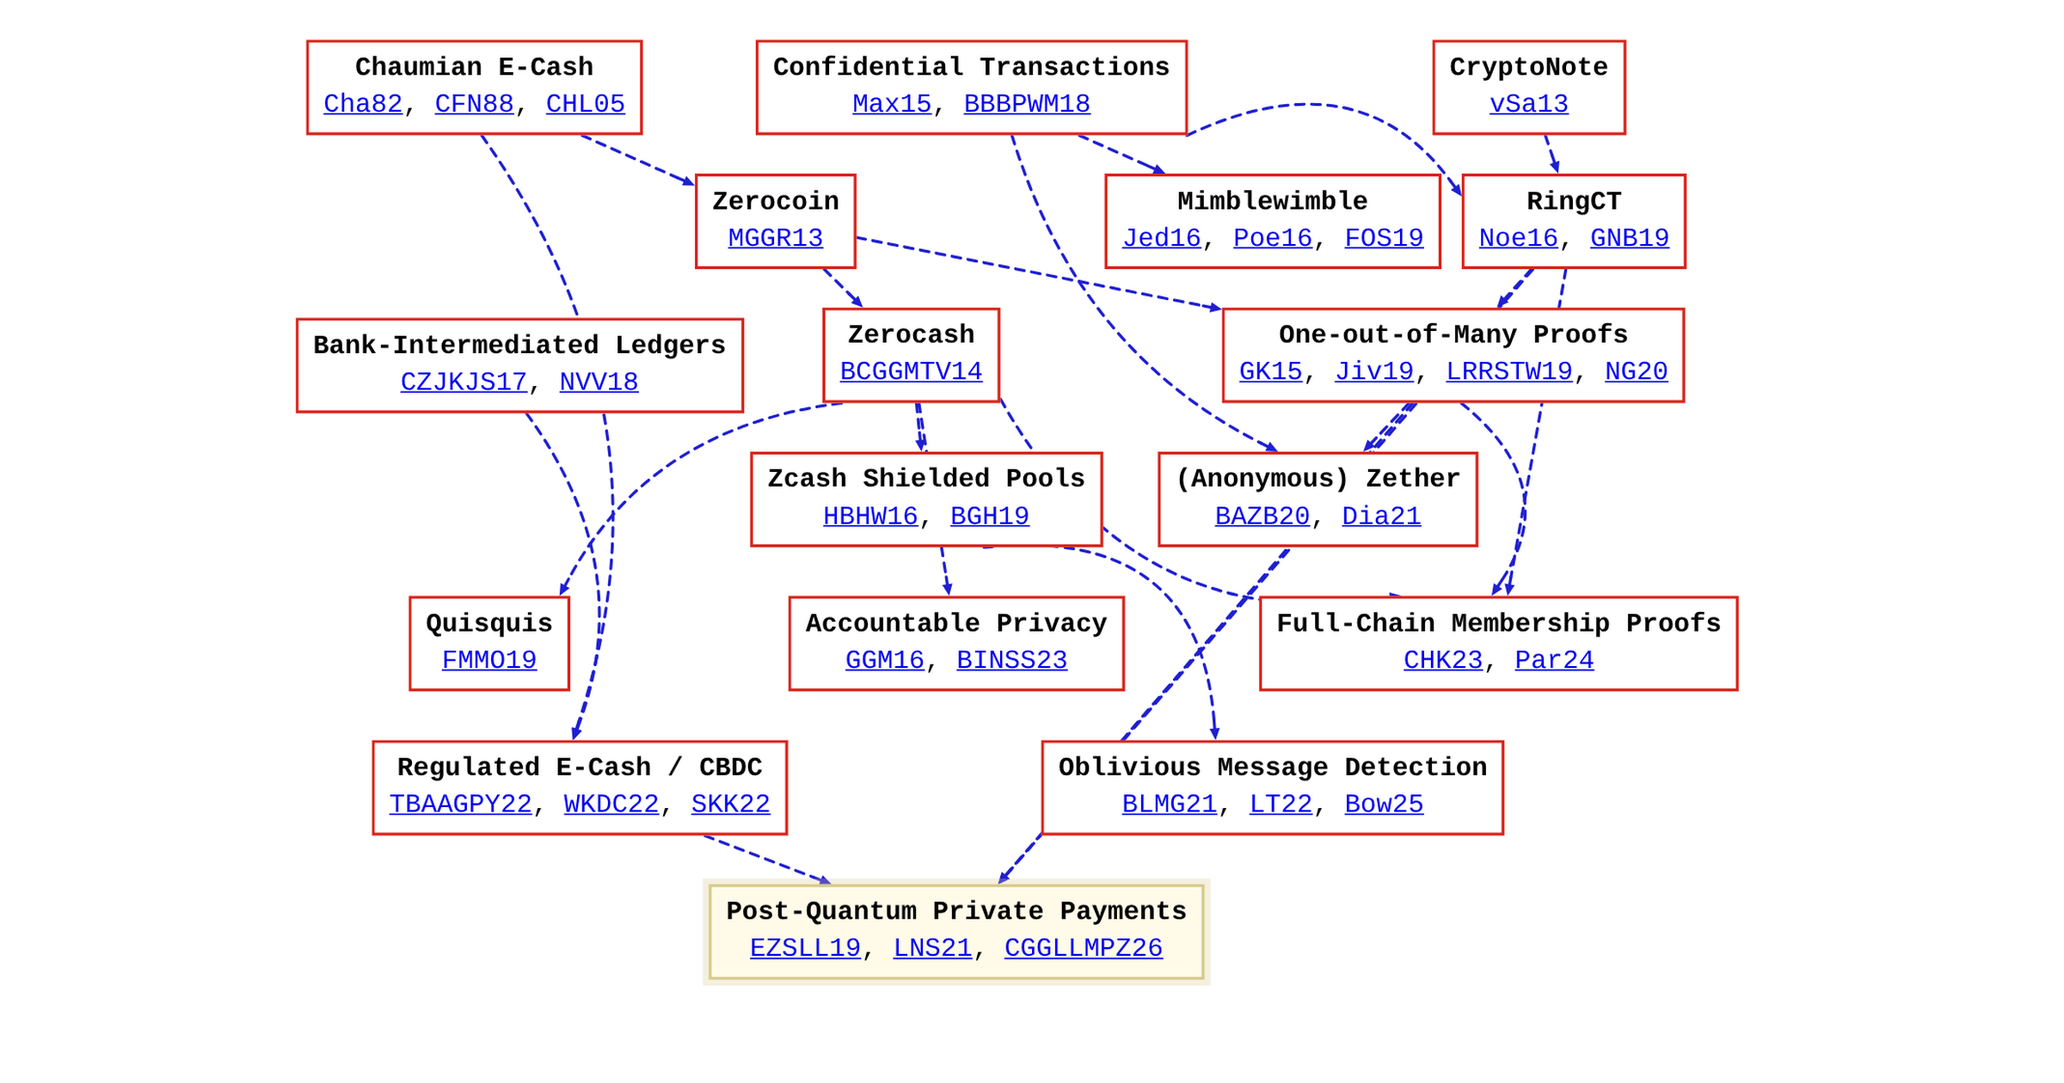
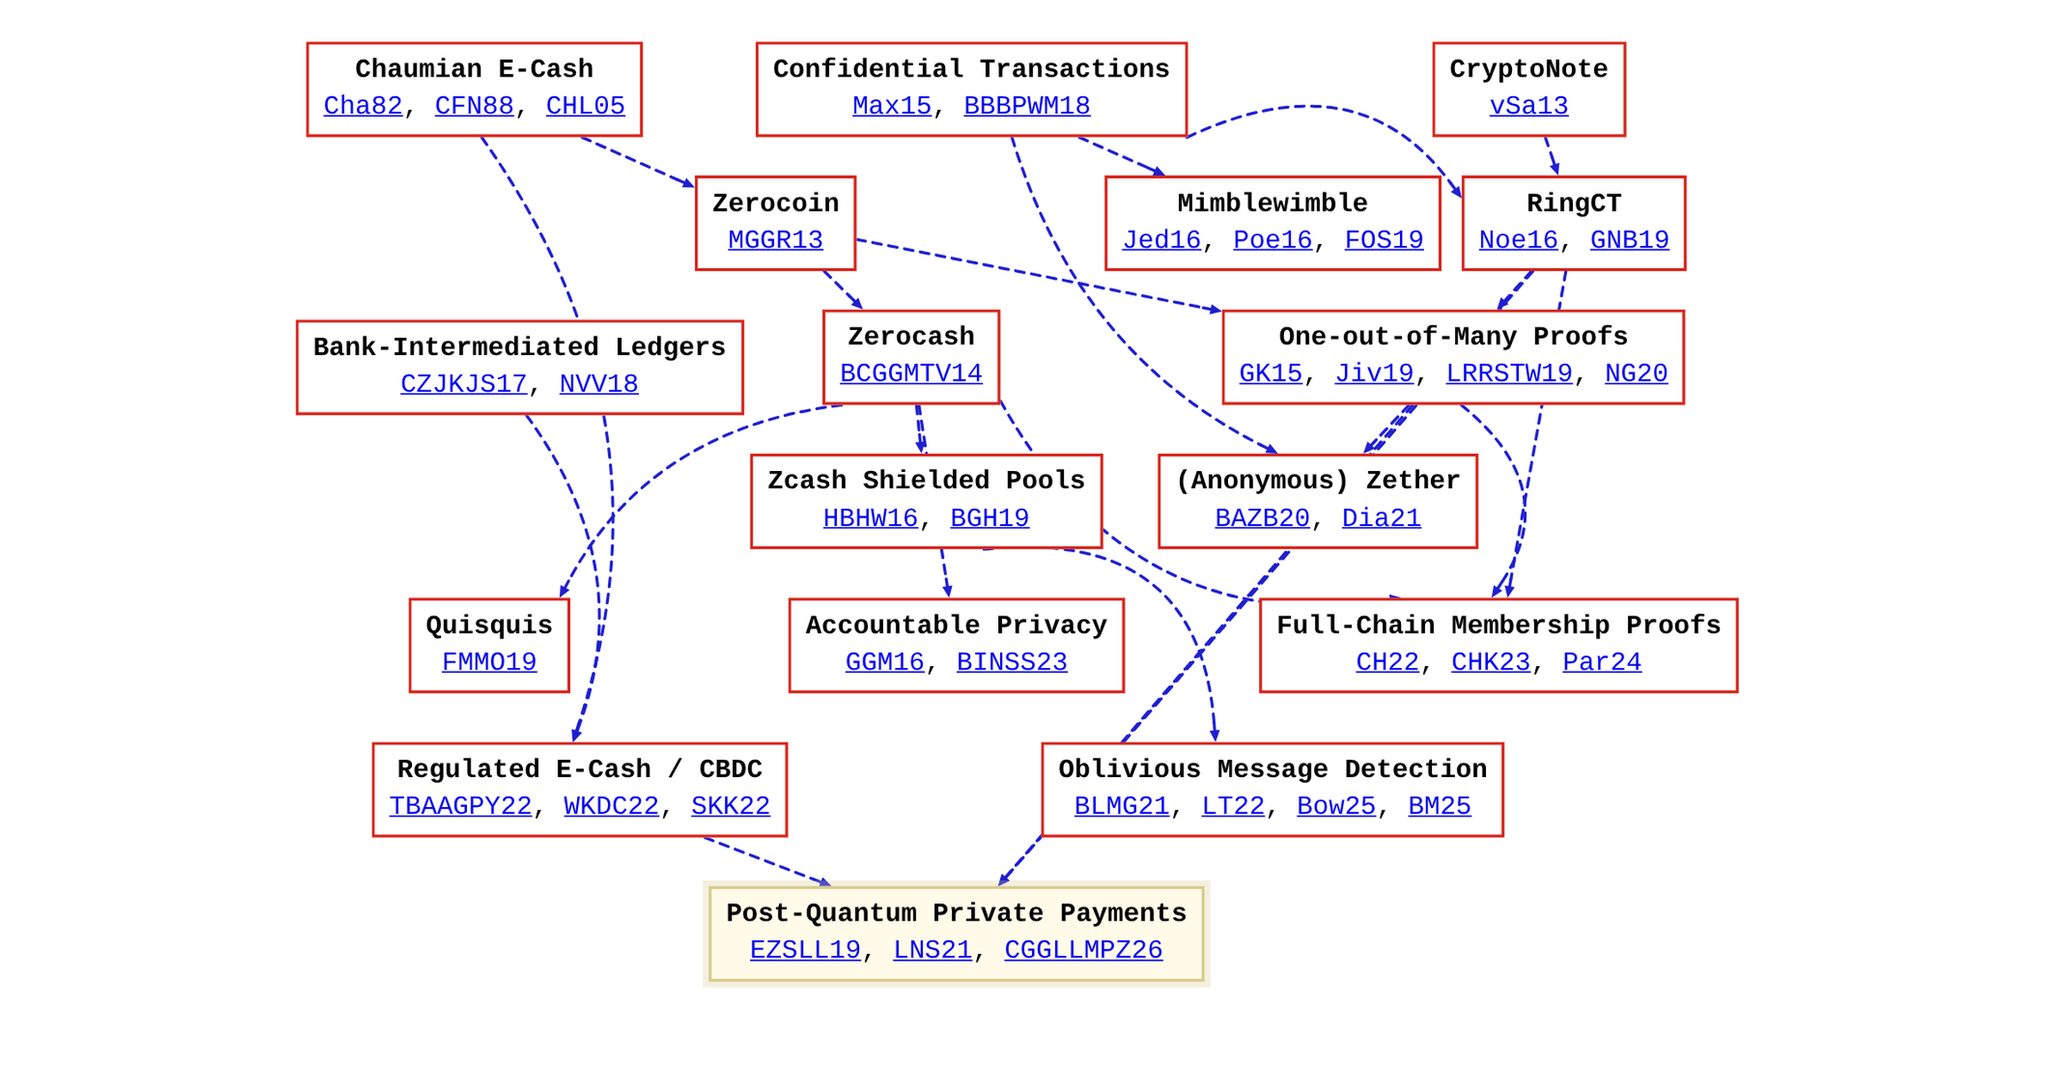
[docs] Hush Money: add Veksel, OCash, PARScoin, DART, and A Note on Notes
Cover the remaining core reading: Veksel (CH22) as the
rerandomization-from-a-set ancestor of curve trees, OCash (HNS24) for
light-client anonymity against serving full nodes, PARScoin (SKK23) and
DART (SKKK25) extending the PEReDi machinery to stablecoins and
multi-asset tokenization, and Bowe-Miers "A Note on Notes" (BM25) as the
paper form of Tachyon's evolving nullifiers and oblivious synchronization.

Claude-Session: https://claude.ai/code/session_016nPoQQGkrV6Mwk5a95oFrh

diff --git a/docs/blogs/private-payments.html b/docs/blogs/private-payments.html
@@ -280,14 +280,16 @@ Vamsi Policharla</a></div>
         ring signatures logarithmic. Every descendant hit the same wall:
         verification linear in the anonymity set, capping deployed sets
         near <span class="math inline">2^{16}</span>.</p>
-        <p>Curve trees (<a
-        href="https://eprint.iacr.org/2022/756">CHK23</a>) broke the
-        wall: a transparent zero-knowledge accumulator built from
-        shallow Merkle trees of Pedersen commitments over a 2-cycle of
-        elliptic curves, proved with <em>select-and-rerandomize</em>
-        relations in Bulletproofs-style circuits – membership proofs of
-        a few KB for sets beyond <span
-        class="math inline">2^{32}</span>. <a
+        <p>Veksel (<a href="https://eprint.iacr.org/2021/327">CH22</a>)
+        showed the way around the wall: build payments from a proof that
+        a homomorphic commitment is a <em>rerandomization</em> of a
+        commitment from a set, without revealing which one. Curve trees
+        (<a href="https://eprint.iacr.org/2022/756">CHK23</a>) scaled
+        the idea into a transparent zero-knowledge accumulator – shallow
+        Merkle trees of Pedersen commitments over a 2-cycle of elliptic
+        curves, proved with <em>select-and-rerandomize</em> relations in
+        Bulletproofs-style circuits – giving membership proofs of a few
+        KB for sets beyond <span class="math inline">2^{32}</span>. <a
         href="https://gist.github.com/kayabaNerve/0e1f7719e5797c826b87249f21ab6f86">FCMP++</a>
         retrofits this onto Monero’s existing outputs using Generalized
         Bulletproofs and Eagen’s divisor technique (<a
@@ -336,7 +338,13 @@ Vamsi Policharla</a></div>
         state transition; PEReDi (<a
         href="https://eprint.iacr.org/2022/974">SKK22</a>) distributes
         the operator into a quorum of maintainers with threshold tracing
-        and privacy revocation, proven in the UC framework.</p>
+        and privacy revocation, proven in the UC framework. The same
+        machinery extends outward: PARScoin (<a
+        href="https://eprint.iacr.org/2023/1908">SKK23</a>) to
+        fiat-backed stablecoins, and DART (<a
+        href="https://eprint.iacr.org/2025/239">SKKK25</a>) to anonymous
+        multi-asset tokenization with asset-specific auditors whose
+        identities themselves stay hidden.</p>
         <p>Compliance for permissionless pools split on one question:
         does anyone hold a de-anonymization trapdoor? <a
         href="https://eprint.iacr.org/2016/061">GGM16</a> put policies –
@@ -364,11 +372,14 @@ Vamsi Policharla</a></div>
         privacy from a single untrusted detector that homomorphically
         packs pertinent messages into an encrypted digest, at <span
         class="math inline">\Theta(N)</span> FHE cost. Tachyon (<a
-        href="https://seanbowe.com/blog/tachyon-scaling-zcash-oblivious-synchronization/">Bow25</a>)
-        exits the game entirely: out-of-band payments, wallet state
-        carried as proof-carrying data, and <em>oblivious
-        synchronization</em> make wallet cost proportional to the
-        wallet’s own activity rather than global chain activity.</p>
+        href="https://seanbowe.com/blog/tachyon-scaling-zcash-oblivious-synchronization/">Bow25</a>,
+        formalized in <a
+        href="https://eprint.iacr.org/2025/2031">BM25</a>) exits the
+        game entirely: out-of-band payments, wallet state carried as
+        proof-carrying data, <em>evolving nullifiers</em>, and
+        <em>oblivious synchronization</em> make wallet cost proportional
+        to the wallet’s own activity rather than global chain
+        activity.</p>
         </div>
         <div id="private-payments-dream-source"
         class="cw-magic-dream-source">
@@ -484,7 +495,12 @@ Vamsi Policharla</a></div>
         href="https://link.springer.com/chapter/10.1007/978-3-031-91131-6_5">LSTW25</a>)
         closing clue-collision DoS. No scheme escapes total server work
         linear in the board – the frontier is constants and trust, not
-        asymptotics.</p>
+        asymptotics. OCash (<a
+        href="https://eprint.iacr.org/2024/246">HNS24</a>) attacks the
+        reader’s side of the ledger instead: payments are shuffled on
+        chain so that a light client knows a few positions among which
+        to find its payment, staying anonymous even against the full
+        nodes it reads through.</p>
         <p>The validator’s bill is state: commitments and nullifiers can
         never be deleted, because the design hides exactly which outputs
         died. Mimblewimble’s cut-through, Quisquis’s non-increasing
@@ -496,8 +512,10 @@ Vamsi Policharla</a></div>
         is the most radical settlement of both bills at once: notes are
         delivered out-of-band, wallets carry proofs of their own state,
         nullifiers evolve unlinkably so untrusted services can prove
-        non-spentness obliviously, and full nodes prune history – wallet
-        and validator costs track the wallet’s own activity, and the
+        non-spentness obliviously, and validators permanently prune the
+        nullifier set (<a
+        href="https://eprint.iacr.org/2025/2031">BM25</a>) – wallet and
+        validator costs track the wallet’s own activity, and the
         trial-decryption side channel disappears structurally.</p>
         <h2 id="the-fourth-axis-accountability">The Fourth Axis:
         Accountability</h2>

diff --git a/docs/blogs/private-payments.magic-move.js b/docs/blogs/private-payments.magic-move.js
@@ -19,10 +19,10 @@ const BOXES = [
   { id: 'cbdc', title: 'Regulated E-Cash / CBDC', papers: 'TBAAGPY22, WKDC22, SKK22', slide1: { x: 20, y: 74 }, slide2: { x: LEFT_COLUMN_X, y: 50 } },
   { id: 'shielded', title: 'Zcash Shielded Pools', papers: 'HBHW16, BGH19', slide1: { x: 43, y: 46 }, slide2: { x: RIGHT_COLUMN_X, y: 37 } },
   { id: 'zether', title: '(Anonymous) Zether', papers: 'BAZB20, Dia21', slide1: { x: 69, y: 46 }, slide2: { x: MIDDLE_COLUMN_X, y: 50 } },
-  { id: 'fcmp', title: 'Full-Chain Membership Proofs', papers: 'CHK23, Par24', slide1: { x: 81, y: 60 }, slide2: { x: RIGHT_COLUMN_X, y: 50 } },
+  { id: 'fcmp', title: 'Full-Chain Membership Proofs', papers: 'CH22, CHK23, Par24', slide1: { x: 81, y: 60 }, slide2: { x: RIGHT_COLUMN_X, y: 50 } },
   { id: 'quisquis', title: 'Quisquis', papers: 'FMMO19', slide1: { x: 14, y: 60 }, slide2: { x: MIDDLE_COLUMN_X, y: 63 } },
   { id: 'acc', title: 'Accountable Privacy', papers: 'GGM16, BINSS23', slide1: { x: 45, y: 60 }, slide2: null },
-  { id: 'det', title: 'Oblivious Message Detection', papers: 'BLMG21, LT22, Bow25', slide1: { x: 66, y: 74 }, slide2: null },
+  { id: 'det', title: 'Oblivious Message Detection', papers: 'BLMG21, LT22, Bow25, BM25', slide1: { x: 66, y: 74 }, slide2: null },
 ];
 
 const EPRINT_URLS = {
@@ -52,6 +52,7 @@ const EPRINT_URLS = {
   BGH19: 'https://eprint.iacr.org/2019/1021',
   BAZB20: 'https://eprint.iacr.org/2019/191',
   Dia21: 'https://eprint.iacr.org/2020/293',
+  CH22: 'https://eprint.iacr.org/2021/327',
   CHK23: 'https://eprint.iacr.org/2022/756',
   Par24: 'https://gist.github.com/kayabaNerve/0e1f7719e5797c826b87249f21ab6f86',
   FMMO19: 'https://eprint.iacr.org/2018/990',
@@ -60,6 +61,7 @@ const EPRINT_URLS = {
   BLMG21: 'https://eprint.iacr.org/2021/089',
   LT22: 'https://eprint.iacr.org/2021/1256',
   Bow25: 'https://seanbowe.com/blog/tachyon-scaling-zcash-oblivious-synchronization/',
+  BM25: 'https://eprint.iacr.org/2025/2031',
   EZSLL19: 'https://eprint.iacr.org/2019/1287',
   LNS21: 'https://eprint.iacr.org/2021/564',
   CGGLLMPZ26: 'https://eprint.iacr.org/2026/015',

diff --git a/docs/blogs/private-payments.md b/docs/blogs/private-payments.md
@@ -78,17 +78,17 @@ A parallel thread hid only amounts. Confidential Transactions ([Max15](https://w
 
 The sub-linear line descends from one-out-of-many proofs ([GK15](https://eprint.iacr.org/2014/764)): a $\Sigma$-protocol showing that one of $N$ commitments opens to zero, with $O(\log{N})$ proof size. Lelantus ([Jiv19](https://eprint.iacr.org/2019/373)) built burn-and-redeem payments on it; Omniring ([LRRSTW19](https://eprint.iacr.org/2019/580)) gave RingCT formal foundations with log-size proofs and a single ring shared by all inputs; Triptych ([NG20](https://eprint.iacr.org/2020/018)) made linkable ring signatures logarithmic. Every descendant hit the same wall: verification linear in the anonymity set, capping deployed sets near $2^{16}$.
 
-Curve trees ([CHK23](https://eprint.iacr.org/2022/756)) broke the wall: a transparent zero-knowledge accumulator built from shallow Merkle trees of Pedersen commitments over a 2-cycle of elliptic curves, proved with *select-and-rerandomize* relations in Bulletproofs-style circuits -- membership proofs of a few KB for sets beyond $2^{32}$. [FCMP++](https://gist.github.com/kayabaNerve/0e1f7719e5797c826b87249f21ab6f86) retrofits this onto Monero's existing outputs using Generalized Bulletproofs and Eagen's divisor technique ([Eag22](https://eprint.iacr.org/2022/596)) while preserving legacy key images: the anonymity set becomes the entire chain, ending the decoy era.
+Veksel ([CH22](https://eprint.iacr.org/2021/327)) showed the way around the wall: build payments from a proof that a homomorphic commitment is a *rerandomization* of a commitment from a set, without revealing which one. Curve trees ([CHK23](https://eprint.iacr.org/2022/756)) scaled the idea into a transparent zero-knowledge accumulator -- shallow Merkle trees of Pedersen commitments over a 2-cycle of elliptic curves, proved with *select-and-rerandomize* relations in Bulletproofs-style circuits -- giving membership proofs of a few KB for sets beyond $2^{32}$. [FCMP++](https://gist.github.com/kayabaNerve/0e1f7719e5797c826b87249f21ab6f86) retrofits this onto Monero's existing outputs using Generalized Bulletproofs and Eagen's divisor technique ([Eag22](https://eprint.iacr.org/2022/596)) while preserving legacy key images: the anonymity set becomes the entire chain, ending the decoy era.
 
 The account model answered differently. Quisquis ([FMMO19](https://eprint.iacr.org/2018/990)) gives accounts *updatable public keys*: a transaction consumes sender, receiver, and decoys and re-emits all of them re-randomized, so each address appears on the blockchain at most twice and there is no ever-growing set of unspent outputs -- at the price of proofs linear in the decoy set and races on overlapping decoys. Zether ([BAZB20](https://eprint.iacr.org/2019/191)) keeps balances as exponent-ElGamal ciphertexts inside a smart contract and tames concurrency with *epochs*, *pending transfers*, and *rollover*, proving statements over ciphertexts with $\Sigma$-Bullets; many-out-of-many proofs ([Dia21](https://eprint.iacr.org/2020/293)) made its anonymous variant logarithmic in the ring of accounts. The same twisted ElGamal machinery ([CMTA19](https://eprint.iacr.org/2019/319)) now runs Solana's confidential transfers -- whose 2025 Fiat-Shamir "phantom challenge" bug is a reminder of where $\Sigma$-protocol stacks go to die.
 
 Permissioned designs keep the trust topology of existing finance and make it verifiable. Solidus ([CZJKJS17](https://eprint.iacr.org/2017/317)) hides the transaction graph inside a publicly-verifiable oblivious RAM machine (PVORM) per bank; zkLedger ([NVV18](https://eprint.iacr.org/2018/241)) writes a commitment entry for *every* bank into every row of the ledger so no bank can omit transactions from an audit, and audit tokens let an auditor extract provably complete answers.
 
-The CBDC wave modernizes Chaum with threshold trust. UTT ([TBAAGPY22](https://eprint.iacr.org/2022/452)) thresholdizes the bank, auditor, and registrar over BFT infrastructure and prices anonymity itself: *anonymity budgets* cap the value a user can send privately per month. Platypus ([WKDC22](https://eprint.iacr.org/2021/1443)) combines e-cash's transaction processing with account commitments so holding and receiving limits become extra ZK conjuncts on each state transition; PEReDi ([SKK22](https://eprint.iacr.org/2022/974)) distributes the operator into a quorum of maintainers with threshold tracing and privacy revocation, proven in the UC framework.
+The CBDC wave modernizes Chaum with threshold trust. UTT ([TBAAGPY22](https://eprint.iacr.org/2022/452)) thresholdizes the bank, auditor, and registrar over BFT infrastructure and prices anonymity itself: *anonymity budgets* cap the value a user can send privately per month. Platypus ([WKDC22](https://eprint.iacr.org/2021/1443)) combines e-cash's transaction processing with account commitments so holding and receiving limits become extra ZK conjuncts on each state transition; PEReDi ([SKK22](https://eprint.iacr.org/2022/974)) distributes the operator into a quorum of maintainers with threshold tracing and privacy revocation, proven in the UC framework. The same machinery extends outward: PARScoin ([SKK23](https://eprint.iacr.org/2023/1908)) to fiat-backed stablecoins, and DART ([SKKK25](https://eprint.iacr.org/2025/239)) to anonymous multi-asset tokenization with asset-specific auditors whose identities themselves stay hidden.
 
 Compliance for permissionless pools split on one question: does anyone hold a de-anonymization trapdoor? [GGM16](https://eprint.iacr.org/2016/061) put policies -- coin tracing, user tracing, spending limits, tax payments -- inside the Zerocash pour circuit, decryptable by an authority. After Tornado Cash was sanctioned, the trapdoor-free line won deployment: proofs of innocence, then Privacy Pools ([BINSS23](https://papers.ssrn.com/sol3/papers.cfm?abstract_id=4563364)), where each withdrawal carries a membership or exclusion proof against a curated *association set*, and Derecho's proof-carrying disclosures ([BF23](https://eprint.iacr.org/2023/273)) propagate such attestations through the pool's internal transaction graph.
 
-Someone still has to notice they got paid. Trial decryption costs $O(\mathsf{chain})$ per wallet and leaks timing; view tags shave constants. Fuzzy message detection ([BLMG21](https://eprint.iacr.org/2021/089)) outsources detection to an untrusted server at a tunable false-positive rate $p$ -- statistically brittle under intersection attacks ([SPB21](https://eprint.iacr.org/2021/1180)). Oblivious message retrieval ([LT22](https://eprint.iacr.org/2021/1256)) gets full privacy from a single untrusted detector that homomorphically packs pertinent messages into an encrypted digest, at $\Theta(N)$ FHE cost. Tachyon ([Bow25](https://seanbowe.com/blog/tachyon-scaling-zcash-oblivious-synchronization/)) exits the game entirely: out-of-band payments, wallet state carried as proof-carrying data, and *oblivious synchronization* make wallet cost proportional to the wallet's own activity rather than global chain activity.
+Someone still has to notice they got paid. Trial decryption costs $O(\mathsf{chain})$ per wallet and leaks timing; view tags shave constants. Fuzzy message detection ([BLMG21](https://eprint.iacr.org/2021/089)) outsources detection to an untrusted server at a tunable false-positive rate $p$ -- statistically brittle under intersection attacks ([SPB21](https://eprint.iacr.org/2021/1180)). Oblivious message retrieval ([LT22](https://eprint.iacr.org/2021/1256)) gets full privacy from a single untrusted detector that homomorphically packs pertinent messages into an encrypted digest, at $\Theta(N)$ FHE cost. Tachyon ([Bow25](https://seanbowe.com/blog/tachyon-scaling-zcash-oblivious-synchronization/), formalized in [BM25](https://eprint.iacr.org/2025/2031)) exits the game entirely: out-of-band payments, wallet state carried as proof-carrying data, *evolving nullifiers*, and *oblivious synchronization* make wallet cost proportional to the wallet's own activity rather than global chain activity.
 :::
 
 ::: {#private-payments-dream-source .cw-magic-dream-source}
@@ -117,9 +117,9 @@ Account-model schemes rent the same poison in different clothes. Anonymous Zethe
 
 ## Poison Three: Scanning and State
 
-A global anonymity set sends two bills. The recipient's bill is detection: every wallet trial-decrypts every output, which is $O(\mathsf{chain})$ bandwidth and compute, and the detection loop itself is a side channel -- [TBP20](https://eprint.iacr.org/2020/220) identified the payee of any shielded transaction from ping timing. The outsourcing ladder trades trust against leakage against cost: [FMD](https://eprint.iacr.org/2021/089)'s detection keys leak a tunable-but-brittle false-positive haze; [Private Signaling](https://www.usenix.org/conference/usenixsecurity22/presentation/madathil) gets exact detection from a TEE or two non-colluding servers; [OMR](https://eprint.iacr.org/2021/1256) needs only a single untrusted detector under LWE, with [PerfOMR](https://eprint.iacr.org/2024/204) cutting its constants and snake-eye-resistant encryption ([LSTW25](https://link.springer.com/chapter/10.1007/978-3-031-91131-6_5)) closing clue-collision DoS. No scheme escapes total server work linear in the board -- the frontier is constants and trust, not asymptotics.
+A global anonymity set sends two bills. The recipient's bill is detection: every wallet trial-decrypts every output, which is $O(\mathsf{chain})$ bandwidth and compute, and the detection loop itself is a side channel -- [TBP20](https://eprint.iacr.org/2020/220) identified the payee of any shielded transaction from ping timing. The outsourcing ladder trades trust against leakage against cost: [FMD](https://eprint.iacr.org/2021/089)'s detection keys leak a tunable-but-brittle false-positive haze; [Private Signaling](https://www.usenix.org/conference/usenixsecurity22/presentation/madathil) gets exact detection from a TEE or two non-colluding servers; [OMR](https://eprint.iacr.org/2021/1256) needs only a single untrusted detector under LWE, with [PerfOMR](https://eprint.iacr.org/2024/204) cutting its constants and snake-eye-resistant encryption ([LSTW25](https://link.springer.com/chapter/10.1007/978-3-031-91131-6_5)) closing clue-collision DoS. No scheme escapes total server work linear in the board -- the frontier is constants and trust, not asymptotics. OCash ([HNS24](https://eprint.iacr.org/2024/246)) attacks the reader's side of the ledger instead: payments are shuffled on chain so that a light client knows a few positions among which to find its payment, staying anonymous even against the full nodes it reads through.
 
-The validator's bill is state: commitments and nullifiers can never be deleted, because the design hides exactly which outputs died. Mimblewimble's cut-through, Quisquis's non-increasing state, and randomized-binning proposals like [Toxic Decoys](https://eprint.iacr.org/2025/1124) each bound state by weakening or restructuring the hidden-spend property. [Tachyon](https://seanbowe.com/blog/tachyon-scaling-zcash-oblivious-synchronization/) is the most radical settlement of both bills at once: notes are delivered out-of-band, wallets carry proofs of their own state, nullifiers evolve unlinkably so untrusted services can prove non-spentness obliviously, and full nodes prune history -- wallet and validator costs track the wallet's own activity, and the trial-decryption side channel disappears structurally.
+The validator's bill is state: commitments and nullifiers can never be deleted, because the design hides exactly which outputs died. Mimblewimble's cut-through, Quisquis's non-increasing state, and randomized-binning proposals like [Toxic Decoys](https://eprint.iacr.org/2025/1124) each bound state by weakening or restructuring the hidden-spend property. [Tachyon](https://seanbowe.com/blog/tachyon-scaling-zcash-oblivious-synchronization/) is the most radical settlement of both bills at once: notes are delivered out-of-band, wallets carry proofs of their own state, nullifiers evolve unlinkably so untrusted services can prove non-spentness obliviously, and validators permanently prune the nullifier set ([BM25](https://eprint.iacr.org/2025/2031)) -- wallet and validator costs track the wallet's own activity, and the trial-decryption side channel disappears structurally.
 
 ## The Fourth Axis: Accountability
 
